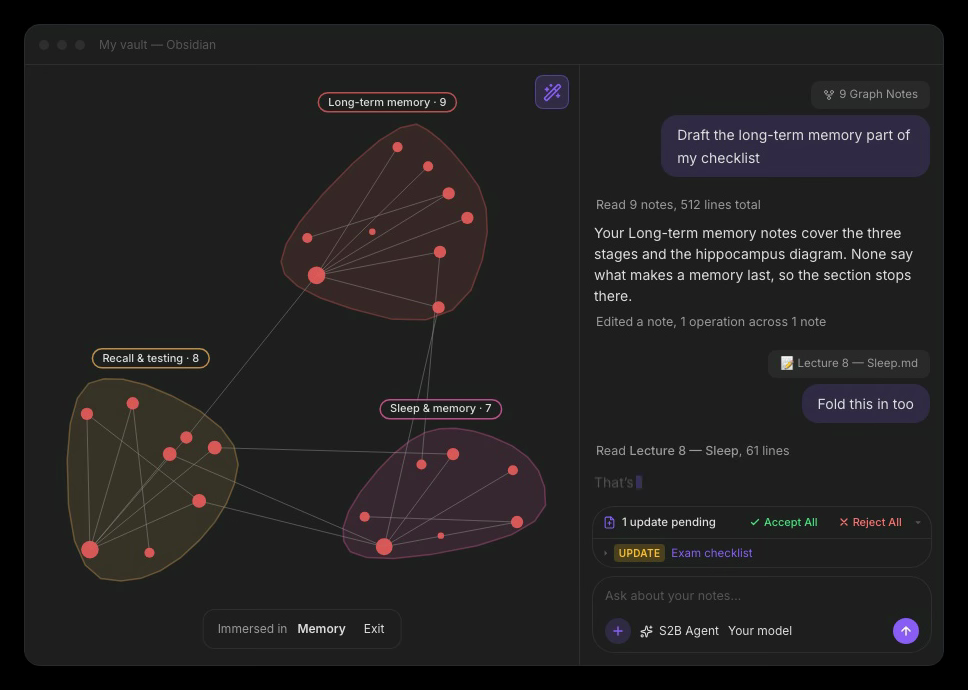
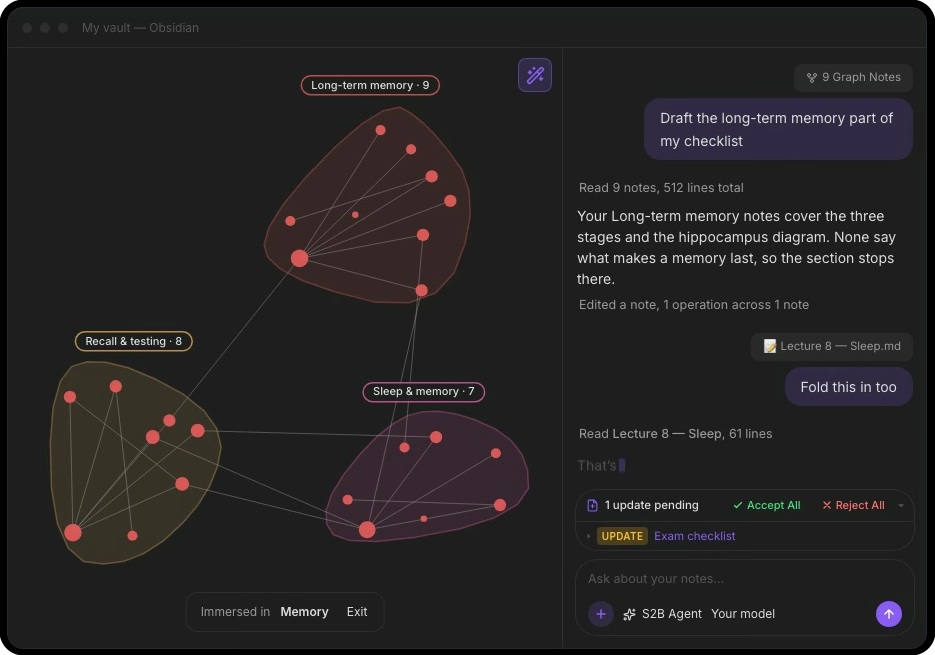
docs(readme): crop hero backdrop to transparency, drop mobile still
The recordings were composed with the Obsidian window floating on an
opaque black backdrop, and video carries no alpha, so the extracted frames
had a 17px black margin baked in -- fine against a dark page, jarring
against a light one.

Crop to the window bounds and add an alpha channel with a 24px rounded
corner mask matching the window, so the hero sits on any background.

Also drop the mobile still: the intro already states mobile support, and
the section reads better without it.

diff --git a/README.md b/README.md
@@ -35,13 +35,6 @@ Out of the box, nothing leaves your machine. The only network requests are to th
 - **[Smart Graph](https://smartsecondbrain.dev/graph/)** that groups your vault by topic and draws the connections you never linked by hand ([how it works](https://smartsecondbrain.dev/graph/how-it-works/))
 - **[Agents](https://smartsecondbrain.dev/agents/)** that read and write your notes, with skills, memory, MCP, and integrations with your other plugins
 
-All of it runs on your phone too:
-
-<picture>
-  <source media="(prefers-color-scheme: dark)" srcset="assets/hero-mobile-dark.png">
-  <img alt="Smart Second Brain on mobile: chat answering from notes, with search results below" src="assets/hero-mobile-light.png" width="320">
-</picture>
-
 ## Contributing
 
 - Report a bug or request a feature [here](https://github.com/s2b-dev/smart-second-brain/issues/new/choose)
